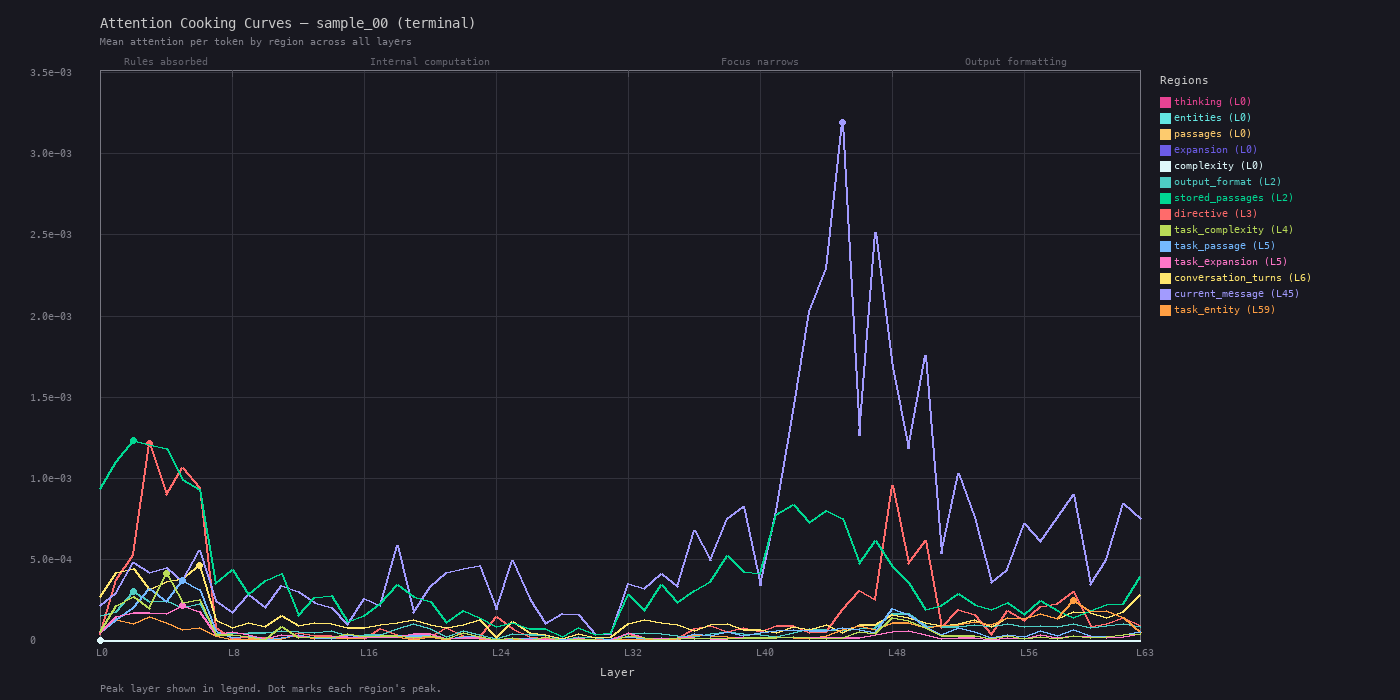
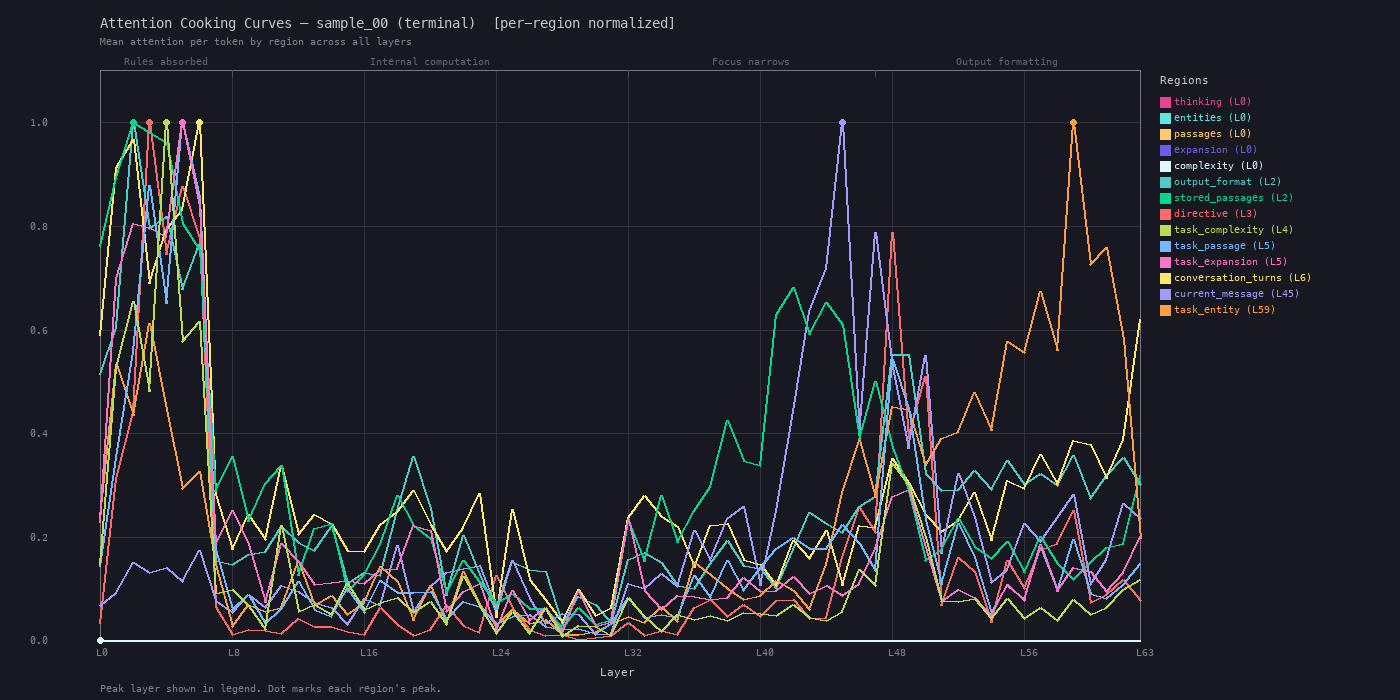
docs: normalize before/after cooking curves, sharpen comparison
CONTEXT:
The before cooking curve used raw attention values while the after used
per-region normalization, making the visual comparison misleading.

APPROACH:
Re-rendered cooking_before.png with --normalize per-region so both images
are on the same 0-1 scale. Rewrote the README descriptions to call out
specific differences now visible in the apples-to-apples comparison:
artifact L0 peaks, isolated vs sustained current_message dominance,
task_entity hijacking output layers vs clean output_format takeover,
noisy vs structured mid-layer oscillations.

CHANGES:
- Re-rendered docs/images/cooking_before.png with per-region normalization
- Updated README.md before/after descriptions with specific curve analysis

🤖 Generated with [Claude Code](https://claude.ai/code)

diff --git a/README.md b/README.md
@@ -242,11 +242,13 @@ This toolkit replaces guesswork with empirical measurement. By capturing exactly
 
 ### Before and after
 
-The cooking curves below show the same prompt before and after iterative tuning. The "before" curve is from a first-draft prompt run through the pipeline — note how `current_message` attention is scattered and competes with `stored_passages` through the mid-layers with no clear resolution:
+The cooking curves below show the same prompt before and after iterative tuning (both per-region normalized to 0–1 for direct comparison).
+
+The "before" curve is from a first-draft prompt. Several regions show artifact peaks at L0 from near-zero values. `current_message` has a narrow, isolated spike around L42–45 but no sustained dominance. `task_entity` unexpectedly takes over the output formatting layers (L56+), and the mid-layers are noisy with no clear phase differentiation:
 
 ![Before tuning — attention is unfocused](docs/images/cooking_before.png)
 
-After several rounds of restructuring guided by the pipeline's output — adjusting region boundaries, reordering task sections, adding structural markers — attention converges cleanly. Each region peaks at a distinct processing phase, `current_message` dominates the focus layers, and the output formatting layers show clear separation:
+After several rounds of restructuring guided by the pipeline's output — adjusting region boundaries, reordering task sections, adding structural markers — the curves show clean phase progression. `directive` and `conversation_turns` peak first (L3), rules regions differentiate through the early-mid layers, `current_message` sustains dominance through the focus layers (L40–50), and `output_format` cleanly takes over the final layers. The mid-layer oscillations are structured rather than noisy:
 
 ![After tuning — attention is focused and phase-separated](docs/images/cooking_after.png)
 
